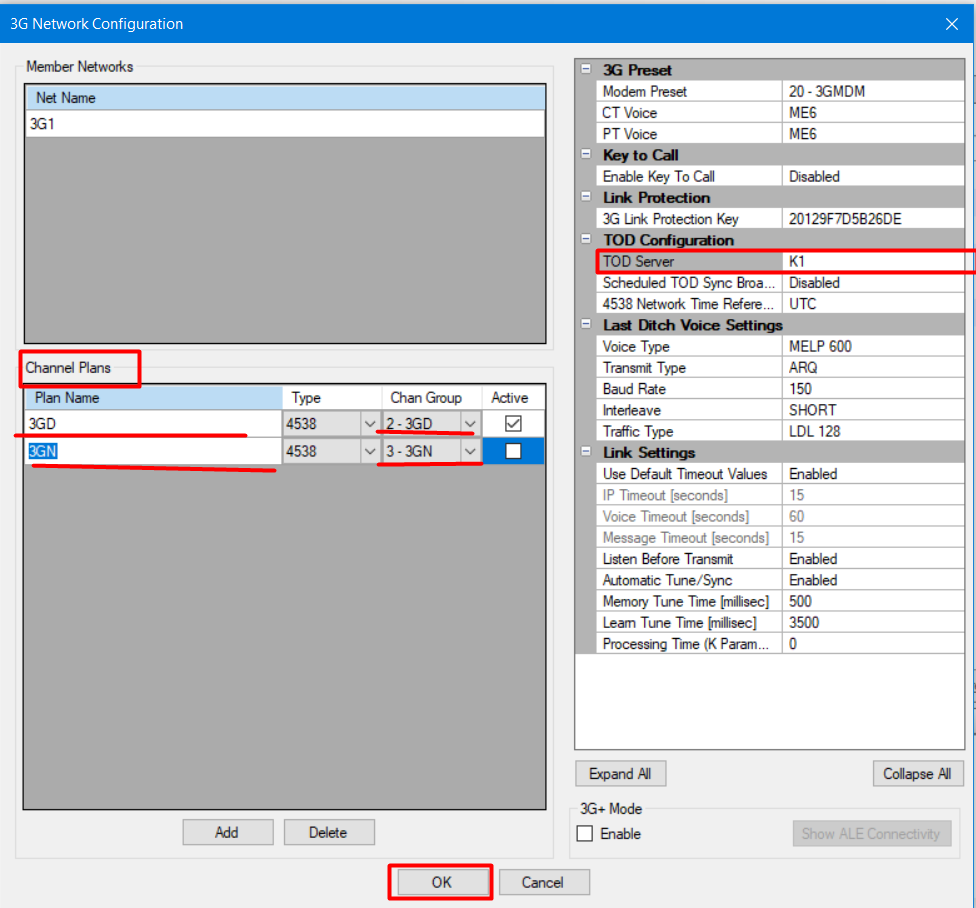
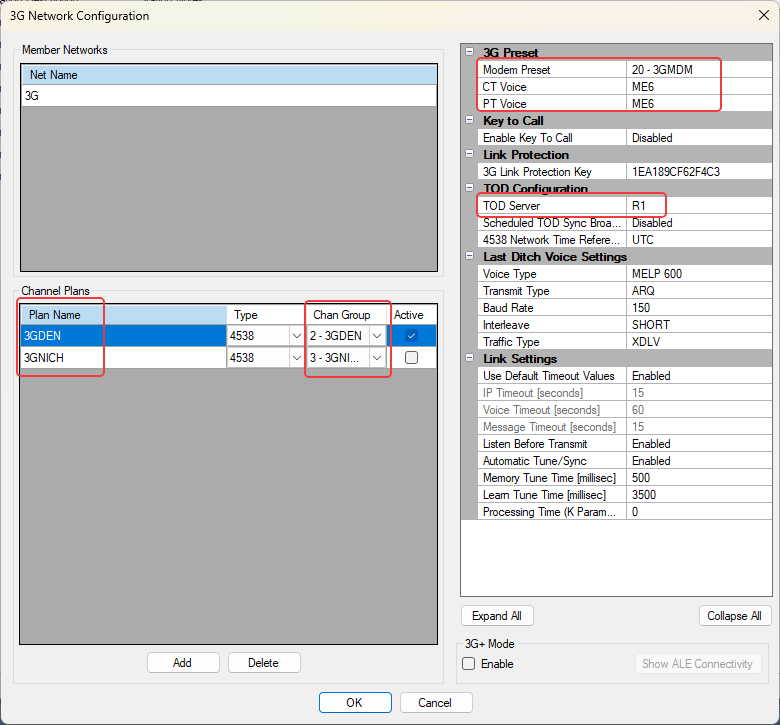
Оновити конфігурацію мережі 3G

Changed region(s): [[0.0, 0.0, 1.0, 1.0], [0.0, 0.971, 0.0308, 1.0]]

diff --git a/08-harris-kh-programuvannia/index.html b/08-harris-kh-programuvannia/index.html
@@ -5,7 +5,7 @@
   <meta name="viewport" content="width=device-width, initial-scale=1">
   <title>8. Програмування HARRIS КХ RF-7800H-MP</title>
   <link rel="icon" href="data:,">
-  <link rel="stylesheet" href="../style.css?v=a3d1751b5d5b">
+  <link rel="stylesheet" href="../style.css?v=8e0179efb502">
 </head>
 <body>
   <main class="page">
@@ -268,22 +268,24 @@
       <ol>
         <li>Додай радіостанції через <code>Existing</code>.</li>
         <li>Зніми виділення та натисни <code>Expand All</code>.</li>
-        <li>Обери <code>Crypto Algorithm</code> і <code>Key Name</code>.</li>
+        <li>Обери <code>Crypto Algorithm</code> і <code>Key Ring Name</code>.</li>
         <li>Відкрий поле <code>3G Configuration</code> кнопкою з трьома крапками.</li>
       </ol>
-      <figure class="procedure-shot">
+      <figure class="procedure-shot procedure-shot-narrow">
         <button class="procedure-shot-button" type="button" aria-label="Збільшити властивості 3G"><img src="three-g-network-properties.png" alt="Властивості мережі 3G і поле 3G Configuration" loading="lazy"></button>
         <figcaption>Шифрування та перехід до спільних параметрів мережі 3G.</figcaption>
       </figure>
-      <h3>TOD Server і частотні плани</h3>
+      <h3>Конфігурація 3G</h3>
       <ul>
+        <li>У групі <code>3G Preset</code> обери <code>Modem Preset</code>, <code>CT Voice</code> і <code>PT Voice</code>.</li>
         <li>У полі <code>TOD Server</code> обери головну радіостанцію, яка забезпечуватиме часову основу мережі.</li>
         <li>У розділі <code>Channel Plans</code> задай назву кожного плану в полі <code>Plan Name</code>.</li>
         <li>У полі <code>Chan Group</code> признач канальну групу 3G відповідному частотному плану.</li>
+        <li>Познач прапорцем <code>Active</code> частотний план, який має бути активним.</li>
       </ul>
       <figure class="procedure-shot">
         <button class="procedure-shot-button" type="button" aria-label="Збільшити конфігурацію 3G"><img src="three-g-configuration.png" alt="TOD Server і Channel Plans у конфігурації 3G" loading="lazy"></button>
-        <figcaption>Вибір TOD Server і канальних груп частотних планів.</figcaption>
+        <figcaption>Профіль модема, вокодери, <code>TOD Server</code> і канальні групи частотних планів.</figcaption>
       </figure>
     </section>
 
@@ -353,12 +355,12 @@
       <p><a href="../07-harris-kh-ekspluatatsiia/index.html#ip-adresa">Перегляд налаштування DIRECT USB та IP-адреси радіостанції</a></p>
     </section>
   </main>
-  <script src="../asset-version.js?v=a3d1751b5d5b"></script>
-  <script src="../search-index.js?v=a3d1751b5d5b"></script>
-  <script src="../topic-search.js?v=a3d1751b5d5b"></script>
+  <script src="../asset-version.js?v=8e0179efb502"></script>
+  <script src="../search-index.js?v=8e0179efb502"></script>
+  <script src="../topic-search.js?v=8e0179efb502"></script>
   <script>window.GLOSSARY_ROOT = "../";</script>
-  <script src="../glossary-data.js?v=a3d1751b5d5b"></script>
-  <script src="../glossary-terms.js?v=a3d1751b5d5b"></script>
-  <script src="../site-ui.js?v=a3d1751b5d5b"></script>
+  <script src="../glossary-data.js?v=8e0179efb502"></script>
+  <script src="../glossary-terms.js?v=8e0179efb502"></script>
+  <script src="../site-ui.js?v=8e0179efb502"></script>
 </body>
 </html>

diff --git a/02-tehnika-bezpeky/quiz.html b/02-tehnika-bezpeky/quiz.html
@@ -1,8 +1,8 @@
 <!doctype html>
-  <script src="../asset-version.js?v=a3d1751b5d5b"></script>
+  <script src="../asset-version.js?v=8e0179efb502"></script>
 
 <script>location.replace("../quiz.html?topic=2");</script>
-<html lang="uk"><head><meta charset="utf-8"><meta name="viewport" content="width=device-width, initial-scale=1"><title>Вікторина</title><link rel="icon" href="data:,"><link rel="stylesheet" href="../style.css?v=a3d1751b5d5b"><link rel="stylesheet" href="../quiz-common.css?v=a3d1751b5d5b"></head>
+<html lang="uk"><head><meta charset="utf-8"><meta name="viewport" content="width=device-width, initial-scale=1"><title>Вікторина</title><link rel="icon" href="data:,"><link rel="stylesheet" href="../style.css?v=8e0179efb502"><link rel="stylesheet" href="../quiz-common.css?v=8e0179efb502"></head>
 <body><main class="page quiz-page">
   <div class="topbar"><a href="index.html">До конспекту</a><span>Тема 2 / Тренування</span></div>
   <header class="quiz-header"><div><p id="topicLabel" class="source"></p><h1 id="quizTitle">Екзаменаційна вікторина</h1></div><div class="scoreboard" aria-label="Стан вікторини"><div><span id="progressText">-</span><small>питання</small></div><div><span id="scoreText">0</span><small>правильно</small></div><div><span id="bestText">-</span><small>найкраще</small></div></div></header>
@@ -10,4 +10,4 @@
   <section id="resumePanel" class="resume-panel" hidden><p class="question-topic">Незавершена спроба</p><h2>Продовжити збережену вікторину?</h2><p id="resumeSummary"></p><div class="quiz-actions"><button id="resumeButton" class="primary-button" type="button">Продовжити</button><button id="newQuizButton" class="secondary-button" type="button">Почати нову</button></div></section>
   <section id="quizPanel" class="quiz-panel" hidden aria-live="polite"><p id="questionTopic" class="question-topic"></p><h2 id="questionText"></h2><div id="answers" class="answers" role="radiogroup"></div><div id="feedback" class="feedback" hidden><p id="feedbackTitle" class="feedback-title"></p><p id="feedbackText"></p><a id="referenceLink" class="reference-link" href="index.html" target="_blank" rel="noopener">Відкрити фрагмент конспекту</a></div><div class="quiz-actions"><button id="checkButton" class="primary-button" type="button" disabled>Перевірити</button><button id="nextButton" class="primary-button" type="button" hidden>Наступне питання</button></div></section>
   <section id="resultPanel" class="result-panel" hidden><p class="result-label">Результат</p><h2 id="resultTitle"></h2><p id="resultMessage"></p><div class="result-stats"><div><strong id="resultCorrectTotal">0/0</strong><span>правильно / усього</span></div><div><strong id="resultGrade">0/5</strong><span>оцінка</span></div><div><strong id="resultPercent">0%</strong><span>правильних</span></div><div><strong id="resultTime">0:00</strong><span>активний час</span></div></div><div id="mistakes" class="mistakes"></div><div class="result-actions"><button id="restartButton" class="primary-button" type="button">Пройти ще раз</button><a class="secondary-button" href="index.html">До конспекту</a></div></section>
-</main><script src="quiz-data.js?v=a3d1751b5d5b"></script><script src="../quiz-engine.js?v=a3d1751b5d5b"></script><script src="../site-ui.js?v=a3d1751b5d5b"></script></body></html>
+</main><script src="quiz-data.js?v=8e0179efb502"></script><script src="../quiz-engine.js?v=8e0179efb502"></script><script src="../site-ui.js?v=8e0179efb502"></script></body></html>

diff --git a/03-radiohvyli-radiozviazok-zavady/quiz.html b/03-radiohvyli-radiozviazok-zavady/quiz.html
@@ -1,8 +1,8 @@
 <!doctype html>
-  <script src="../asset-version.js?v=a3d1751b5d5b"></script>
+  <script src="../asset-version.js?v=8e0179efb502"></script>
 
 <script>location.replace("../quiz.html?topic=3");</script>
-<html lang="uk"><head><meta charset="utf-8"><meta name="viewport" content="width=device-width, initial-scale=1"><title>Вікторина</title><link rel="icon" href="data:,"><link rel="stylesheet" href="../style.css?v=a3d1751b5d5b"><link rel="stylesheet" href="../quiz-common.css?v=a3d1751b5d5b"></head>
+<html lang="uk"><head><meta charset="utf-8"><meta name="viewport" content="width=device-width, initial-scale=1"><title>Вікторина</title><link rel="icon" href="data:,"><link rel="stylesheet" href="../style.css?v=8e0179efb502"><link rel="stylesheet" href="../quiz-common.css?v=8e0179efb502"></head>
 <body><main class="page quiz-page">
   <div class="topbar"><a href="index.html">До конспекту</a><span>Тема 3 / Тренування</span></div>
   <header class="quiz-header"><div><p id="topicLabel" class="source"></p><h1 id="quizTitle">Екзаменаційна вікторина</h1></div><div class="scoreboard" aria-label="Стан вікторини"><div><span id="progressText">-</span><small>питання</small></div><div><span id="scoreText">0</span><small>правильно</small></div><div><span id="bestText">-</span><small>найкраще</small></div></div></header>
@@ -10,4 +10,4 @@
   <section id="resumePanel" class="resume-panel" hidden><p class="question-topic">Незавершена спроба</p><h2>Продовжити збережену вікторину?</h2><p id="resumeSummary"></p><div class="quiz-actions"><button id="resumeButton" class="primary-button" type="button">Продовжити</button><button id="newQuizButton" class="secondary-button" type="button">Почати нову</button></div></section>
   <section id="quizPanel" class="quiz-panel" hidden aria-live="polite"><p id="questionTopic" class="question-topic"></p><h2 id="questionText"></h2><div id="answers" class="answers" role="radiogroup"></div><div id="feedback" class="feedback" hidden><p id="feedbackTitle" class="feedback-title"></p><p id="feedbackText"></p><a id="referenceLink" class="reference-link" href="index.html" target="_blank" rel="noopener">Відкрити фрагмент конспекту</a></div><div class="quiz-actions"><button id="checkButton" class="primary-button" type="button" disabled>Перевірити</button><button id="nextButton" class="primary-button" type="button" hidden>Наступне питання</button></div></section>
   <section id="resultPanel" class="result-panel" hidden><p class="result-label">Результат</p><h2 id="resultTitle"></h2><p id="resultMessage"></p><div class="result-stats"><div><strong id="resultCorrectTotal">0/0</strong><span>правильно / усього</span></div><div><strong id="resultGrade">0/5</strong><span>оцінка</span></div><div><strong id="resultPercent">0%</strong><span>правильних</span></div><div><strong id="resultTime">0:00</strong><span>активний час</span></div></div><div id="mistakes" class="mistakes"></div><div class="result-actions"><button id="restartButton" class="primary-button" type="button">Пройти ще раз</button><a class="secondary-button" href="index.html">До конспекту</a></div></section>
-</main><script src="quiz-data.js?v=a3d1751b5d5b"></script><script src="../quiz-engine.js?v=a3d1751b5d5b"></script><script src="../site-ui.js?v=a3d1751b5d5b"></script></body></html>
+</main><script src="quiz-data.js?v=8e0179efb502"></script><script src="../quiz-engine.js?v=8e0179efb502"></script><script src="../site-ui.js?v=8e0179efb502"></script></body></html>

diff --git a/04-pobudova-radiostantsii-antenny/quiz.html b/04-pobudova-radiostantsii-antenny/quiz.html
@@ -1,8 +1,8 @@
 <!doctype html>
-  <script src="../asset-version.js?v=a3d1751b5d5b"></script>
+  <script src="../asset-version.js?v=8e0179efb502"></script>
 
 <script>location.replace("../quiz.html?topic=4");</script>
-<html lang="uk"><head><meta charset="utf-8"><meta name="viewport" content="width=device-width, initial-scale=1"><title>Вікторина</title><link rel="icon" href="data:,"><link rel="stylesheet" href="../style.css?v=a3d1751b5d5b"><link rel="stylesheet" href="../quiz-common.css?v=a3d1751b5d5b"></head>
+<html lang="uk"><head><meta charset="utf-8"><meta name="viewport" content="width=device-width, initial-scale=1"><title>Вікторина</title><link rel="icon" href="data:,"><link rel="stylesheet" href="../style.css?v=8e0179efb502"><link rel="stylesheet" href="../quiz-common.css?v=8e0179efb502"></head>
 <body><main class="page quiz-page">
   <div class="topbar"><a href="index.html">До конспекту</a><span>Тема 4 / Тренування</span></div>
   <header class="quiz-header"><div><p id="topicLabel" class="source"></p><h1 id="quizTitle">Екзаменаційна вікторина</h1></div><div class="scoreboard" aria-label="Стан вікторини"><div><span id="progressText">-</span><small>питання</small></div><div><span id="scoreText">0</span><small>правильно</small></div><div><span id="bestText">-</span><small>найкраще</small></div></div></header>
@@ -10,4 +10,4 @@
   <section id="resumePanel" class="resume-panel" hidden><p class="question-topic">Незавершена спроба</p><h2>Продовжити збережену вікторину?</h2><p id="resumeSummary"></p><div class="quiz-actions"><button id="resumeButton" class="primary-button" type="button">Продовжити</button><button id="newQuizButton" class="secondary-button" type="button">Почати нову</button></div></section>
   <section id="quizPanel" class="quiz-panel" hidden aria-live="polite"><p id="questionTopic" class="question-topic"></p><h2 id="questionText"></h2><div id="answers" class="answers" role="radiogroup"></div><div id="feedback" class="feedback" hidden><p id="feedbackTitle" class="feedback-title"></p><p id="feedbackText"></p><a id="referenceLink" class="reference-link" href="index.html" target="_blank" rel="noopener">Відкрити фрагмент конспекту</a></div><div class="quiz-actions"><button id="checkButton" class="primary-button" type="button" disabled>Перевірити</button><button id="nextButton" class="primary-button" type="button" hidden>Наступне питання</button></div></section>
   <section id="resultPanel" class="result-panel" hidden><p class="result-label">Результат</p><h2 id="resultTitle"></h2><p id="resultMessage"></p><div class="result-stats"><div><strong id="resultCorrectTotal">0/0</strong><span>правильно / усього</span></div><div><strong id="resultGrade">0/5</strong><span>оцінка</span></div><div><strong id="resultPercent">0%</strong><span>правильних</span></div><div><strong id="resultTime">0:00</strong><span>активний час</span></div></div><div id="mistakes" class="mistakes"></div><div class="result-actions"><button id="restartButton" class="primary-button" type="button">Пройти ще раз</button><a class="secondary-button" href="index.html">До конспекту</a></div></section>
-</main><script src="quiz-data.js?v=a3d1751b5d5b"></script><script src="../quiz-engine.js?v=a3d1751b5d5b"></script><script src="../site-ui.js?v=a3d1751b5d5b"></script></body></html>
+</main><script src="quiz-data.js?v=8e0179efb502"></script><script src="../quiz-engine.js?v=8e0179efb502"></script><script src="../site-ui.js?v=8e0179efb502"></script></body></html>

diff --git a/05-harris-ukh/quiz.html b/05-harris-ukh/quiz.html
@@ -1,8 +1,8 @@
 <!doctype html>
-  <script src="../asset-version.js?v=a3d1751b5d5b"></script>
+  <script src="../asset-version.js?v=8e0179efb502"></script>
 
 <script>location.replace("../quiz.html?topic=5");</script>
-<html lang="uk"><head><meta charset="utf-8"><meta name="viewport" content="width=device-width, initial-scale=1"><title>Вікторина</title><link rel="icon" href="data:,"><link rel="stylesheet" href="../style.css?v=a3d1751b5d5b"><link rel="stylesheet" href="../quiz-common.css?v=a3d1751b5d5b"></head>
+<html lang="uk"><head><meta charset="utf-8"><meta name="viewport" content="width=device-width, initial-scale=1"><title>Вікторина</title><link rel="icon" href="data:,"><link rel="stylesheet" href="../style.css?v=8e0179efb502"><link rel="stylesheet" href="../quiz-common.css?v=8e0179efb502"></head>
 <body><main class="page quiz-page">
   <div class="topbar"><a href="index.html">До конспекту</a><span>Тема 5 / Тренування</span></div>
   <header class="quiz-header"><div><p id="topicLabel" class="source"></p><h1 id="quizTitle">Екзаменаційна вікторина</h1></div><div class="scoreboard" aria-label="Стан вікторини"><div><span id="progressText">-</span><small>питання</small></div><div><span id="scoreText">0</span><small>правильно</small></div><div><span id="bestText">-</span><small>найкраще</small></div></div></header>
@@ -10,4 +10,4 @@
   <section id="resumePanel" class="resume-panel" hidden><p class="question-topic">Незавершена спроба</p><h2>Продовжити збережену вікторину?</h2><p id="resumeSummary"></p><div class="quiz-actions"><button id="resumeButton" class="primary-button" type="button">Продовжити</button><button id="newQuizButton" class="secondary-button" type="button">Почати нову</button></div></section>
   <section id="quizPanel" class="quiz-panel" hidden aria-live="polite"><p id="questionTopic" class="question-topic"></p><h2 id="questionText"></h2><div id="answers" class="answers" role="radiogroup"></div><div id="feedback" class="feedback" hidden><p id="feedbackTitle" class="feedback-title"></p><p id="feedbackText"></p><a id="referenceLink" class="reference-link" href="index.html" target="_blank" rel="noopener">Відкрити фрагмент конспекту</a></div><div class="quiz-actions"><button id="checkButton" class="primary-button" type="button" disabled>Перевірити</button><button id="nextButton" class="primary-button" type="button" hidden>Наступне питання</button></div></section>
   <section id="resultPanel" class="result-panel" hidden><p class="result-label">Результат</p><h2 id="resultTitle"></h2><p id="resultMessage"></p><div class="result-stats"><div><strong id="resultCorrectTotal">0/0</strong><span>правильно / усього</span></div><div><strong id="resultGrade">0/5</strong><span>оцінка</span></div><div><strong id="resultPercent">0%</strong><span>правильних</span></div><div><strong id="resultTime">0:00</strong><span>активний час</span></div></div><div id="mistakes" class="mistakes"></div><div class="result-actions"><button id="restartButton" class="primary-button" type="button">Пройти ще раз</button><a class="secondary-button" href="index.html">До конспекту</a></div></section>
-</main><script src="quiz-data.js?v=a3d1751b5d5b"></script><script src="../quiz-engine.js?v=a3d1751b5d5b"></script><script src="../site-ui.js?v=a3d1751b5d5b"></script></body></html>
+</main><script src="quiz-data.js?v=8e0179efb502"></script><script src="../quiz-engine.js?v=8e0179efb502"></script><script src="../site-ui.js?v=8e0179efb502"></script></body></html>

diff --git a/search-index.js b/search-index.js
@@ -433,7 +433,7 @@ window.SEARCH_INDEX = {
       "topic": "8. Програмування HARRIS КХ RF-7800H-MP",
       "section": "Мережа 3G",
       "url": "08-harris-kh-programuvannia/index.html#three-g",
-      "text": "Мережа 3G Create Create Network 3G Додай радіостанції через Existing . Зніми виділення та натисни Expand All . Обери Crypto Algorithm і Key Name . Відкрий поле 3G Configuration кнопкою з трьома крапками. Шифрування та перехід до спільних параметрів мережі 3G. TOD Server і частотні плани У полі TOD Server обери головну радіостанцію, яка забезпечуватиме часову основу мережі. У розділі Channel Plans задай назву кожного плану в полі Plan Name . У полі Chan Group признач канальну групу 3G відповідному частотному плану. Вибір TOD Server і канальних груп частотних планів."
+      "text": "Мережа 3G Create Create Network 3G Додай радіостанції через Existing . Зніми виділення та натисни Expand All . Обери Crypto Algorithm і Key Ring Name . Відкрий поле 3G Configuration кнопкою з трьома крапками. Шифрування та перехід до спільних параметрів мережі 3G. Конфігурація 3G У групі 3G Preset обери Modem Preset , CT Voice і PT Voice . У полі TOD Server обери головну радіостанцію, яка забезпечуватиме часову основу мережі. У розділі Channel Plans задай назву кожного плану в полі Plan Name . У полі Chan Group признач канальну групу 3G відповідному частотному плану. Познач прапорцем Active частотний план, який має бути активним. Профіль модема, вокодери, TOD Server і канальні групи частотних планів."
     },
     {
       "topic": "8. Програмування HARRIS КХ RF-7800H-MP",

diff --git a/02-tehnika-bezpeky/index.html b/02-tehnika-bezpeky/index.html
@@ -4,7 +4,7 @@
   <meta charset="utf-8">
   <meta name="viewport" content="width=device-width, initial-scale=1">
   <title>2. Техніка безпеки при експлуатації та обслуговуванні засобів радіозв'язку</title>
-  <link rel="stylesheet" href="../style.css?v=a3d1751b5d5b">
+  <link rel="stylesheet" href="../style.css?v=8e0179efb502">
 </head>
 <body>
   <main class="page">
@@ -166,13 +166,13 @@
     <div class="topic-quiz-cta"><div><strong>Перевір себе</strong><span>Перевір знання за матеріалами цієї теми.</span></div><a class="topic-quiz-button" href="../quiz.html?topic=2">Почати вікторину <span aria-hidden="true">→</span></a></div>
 
   </main>
-  <script src="../asset-version.js?v=a3d1751b5d5b"></script>
+  <script src="../asset-version.js?v=8e0179efb502"></script>
 
-  <script src="../search-index.js?v=a3d1751b5d5b"></script>
-  <script src="../topic-search.js?v=a3d1751b5d5b"></script>
+  <script src="../search-index.js?v=8e0179efb502"></script>
+  <script src="../topic-search.js?v=8e0179efb502"></script>
   <script>window.GLOSSARY_ROOT = "../";</script>
-  <script src="../glossary-data.js?v=a3d1751b5d5b"></script>
-  <script src="../glossary-terms.js?v=a3d1751b5d5b"></script>
-  <script src="../site-ui.js?v=a3d1751b5d5b"></script>
+  <script src="../glossary-data.js?v=8e0179efb502"></script>
+  <script src="../glossary-terms.js?v=8e0179efb502"></script>
+  <script src="../site-ui.js?v=8e0179efb502"></script>
 </body>
 </html>

diff --git a/01-osnovy-radiozviazku/index.html b/01-osnovy-radiozviazku/index.html
@@ -4,7 +4,7 @@
   <meta charset="utf-8">
   <meta name="viewport" content="width=device-width, initial-scale=1">
   <title>1. Основи радіозв'язку: організація, режими, радіообмін</title>
-  <link rel="stylesheet" href="../style.css?v=a3d1751b5d5b">
+  <link rel="stylesheet" href="../style.css?v=8e0179efb502">
 </head>
 <body>
   <main class="page">
@@ -205,13 +205,13 @@
 
     <div class="topic-quiz-cta"><div><strong>Перевір себе</strong><span>Перевір знання за матеріалами цієї теми.</span></div><a class="topic-quiz-button" href="../quiz.html?topic=1">Почати вікторину <span aria-hidden="true">→</span></a></div>
   </main>
-  <script src="../asset-version.js?v=a3d1751b5d5b"></script>
+  <script src="../asset-version.js?v=8e0179efb502"></script>
 
-  <script src="../search-index.js?v=a3d1751b5d5b"></script>
-  <script src="../topic-search.js?v=a3d1751b5d5b"></script>
+  <script src="../search-index.js?v=8e0179efb502"></script>
+  <script src="../topic-search.js?v=8e0179efb502"></script>
   <script>window.GLOSSARY_ROOT = "../";</script>
-  <script src="../glossary-data.js?v=a3d1751b5d5b"></script>
-  <script src="../glossary-terms.js?v=a3d1751b5d5b"></script>
-  <script src="../site-ui.js?v=a3d1751b5d5b"></script>
+  <script src="../glossary-data.js?v=8e0179efb502"></script>
+  <script src="../glossary-terms.js?v=8e0179efb502"></script>
+  <script src="../site-ui.js?v=8e0179efb502"></script>
 </body>
 </html>

diff --git a/04-pobudova-radiostantsii-antenny/index.html b/04-pobudova-radiostantsii-antenny/index.html
@@ -4,7 +4,7 @@
   <meta charset="utf-8">
   <meta name="viewport" content="width=device-width, initial-scale=1">
   <title>4. Побудова сучасних радіостанцій та антени</title>
-  <link rel="stylesheet" href="../style.css?v=a3d1751b5d5b">
+  <link rel="stylesheet" href="../style.css?v=8e0179efb502">
 </head>
 <body>
   <main class="page">
@@ -208,13 +208,13 @@
     <div class="topic-quiz-cta"><div><strong>Перевір себе</strong><span>Перевір знання за матеріалами цієї теми.</span></div><a class="topic-quiz-button" href="../quiz.html?topic=4">Почати вікторину <span aria-hidden="true">→</span></a></div>
 
   </main>
-  <script src="../asset-version.js?v=a3d1751b5d5b"></script>
+  <script src="../asset-version.js?v=8e0179efb502"></script>
 
-  <script src="../search-index.js?v=a3d1751b5d5b"></script>
-  <script src="../topic-search.js?v=a3d1751b5d5b"></script>
+  <script src="../search-index.js?v=8e0179efb502"></script>
+  <script src="../topic-search.js?v=8e0179efb502"></script>
   <script>window.GLOSSARY_ROOT = "../";</script>
-  <script src="../glossary-data.js?v=a3d1751b5d5b"></script>
-  <script src="../glossary-terms.js?v=a3d1751b5d5b"></script>
-  <script src="../site-ui.js?v=a3d1751b5d5b"></script>
+  <script src="../glossary-data.js?v=8e0179efb502"></script>
+  <script src="../glossary-terms.js?v=8e0179efb502"></script>
+  <script src="../site-ui.js?v=8e0179efb502"></script>
 </body>
 </html>

diff --git a/03-radiohvyli-radiozviazok-zavady/index.html b/03-radiohvyli-radiozviazok-zavady/index.html
@@ -4,7 +4,7 @@
   <meta charset="utf-8">
   <meta name="viewport" content="width=device-width, initial-scale=1">
   <title>3. Радіохвилі, радіозв'язок і радіозавади</title>
-  <link rel="stylesheet" href="../style.css?v=a3d1751b5d5b">
+  <link rel="stylesheet" href="../style.css?v=8e0179efb502">
 </head>
 <body>
   <main class="page">
@@ -171,13 +171,13 @@
     <div class="topic-quiz-cta"><div><strong>Перевір себе</strong><span>Перевір знання за матеріалами цієї теми.</span></div><a class="topic-quiz-button" href="../quiz.html?topic=3">Почати вікторину <span aria-hidden="true">→</span></a></div>
 
   </main>
-  <script src="../asset-version.js?v=a3d1751b5d5b"></script>
+  <script src="../asset-version.js?v=8e0179efb502"></script>
 
-  <script src="../search-index.js?v=a3d1751b5d5b"></script>
-  <script src="../topic-search.js?v=a3d1751b5d5b"></script>
+  <script src="../search-index.js?v=8e0179efb502"></script>
+  <script src="../topic-search.js?v=8e0179efb502"></script>
   <script>window.GLOSSARY_ROOT = "../";</script>
-  <script src="../glossary-data.js?v=a3d1751b5d5b"></script>
-  <script src="../glossary-terms.js?v=a3d1751b5d5b"></script>
-  <script src="../site-ui.js?v=a3d1751b5d5b"></script>
+  <script src="../glossary-data.js?v=8e0179efb502"></script>
+  <script src="../glossary-terms.js?v=8e0179efb502"></script>
+  <script src="../site-ui.js?v=8e0179efb502"></script>
 </body>
 </html>

diff --git a/07-harris-kh-ekspluatatsiia/index.html b/07-harris-kh-ekspluatatsiia/index.html
@@ -5,7 +5,7 @@
   <meta name="viewport" content="width=device-width, initial-scale=1">
   <title>7. Експлуатація HARRIS КХ RF-7800H-MP / MPR-9600-MP</title>
   <link rel="icon" href="data:,">
-  <link rel="stylesheet" href="../style.css?v=a3d1751b5d5b">
+  <link rel="stylesheet" href="../style.css?v=8e0179efb502">
 </head>
 <body>
   <main class="page">
@@ -216,13 +216,13 @@
 
     <div class="topic-quiz-cta"><div><strong>Перевір себе</strong><span>Перевір знання за матеріалами цієї теми.</span></div><a class="topic-quiz-button" href="../quiz.html?topic=7">Почати вікторину <span aria-hidden="true">→</span></a></div>
   </main>
-  <script src="../asset-version.js?v=a3d1751b5d5b"></script>
+  <script src="../asset-version.js?v=8e0179efb502"></script>
 
-  <script src="../search-index.js?v=a3d1751b5d5b"></script>
-  <script src="../topic-search.js?v=a3d1751b5d5b"></script>
+  <script src="../search-index.js?v=8e0179efb502"></script>
+  <script src="../topic-search.js?v=8e0179efb502"></script>
   <script>window.GLOSSARY_ROOT = "../";</script>
-  <script src="../glossary-data.js?v=a3d1751b5d5b"></script>
-  <script src="../glossary-terms.js?v=a3d1751b5d5b"></script>
-  <script src="../site-ui.js?v=a3d1751b5d5b"></script>
+  <script src="../glossary-data.js?v=8e0179efb502"></script>
+  <script src="../glossary-terms.js?v=8e0179efb502"></script>
+  <script src="../site-ui.js?v=8e0179efb502"></script>
 </body>
 </html>

diff --git a/05-harris-ukh/index.html b/05-harris-ukh/index.html
@@ -5,7 +5,7 @@
   <meta name="viewport" content="width=device-width, initial-scale=1">
   <title>5. ТТХ HARRIS УКХ RF-7850M-HH / RF-7800V-HH</title>
   <link rel="icon" href="data:,">
-  <link rel="stylesheet" href="../style.css?v=a3d1751b5d5b">
+  <link rel="stylesheet" href="../style.css?v=8e0179efb502">
 </head>
 <body>
   <main class="page">
@@ -498,13 +498,13 @@
     <div class="topic-quiz-cta"><div><strong>Перевір себе</strong><span>Перевір знання за матеріалами цієї теми.</span></div><a class="topic-quiz-button" href="../quiz.html?topic=5">Почати вікторину <span aria-hidden="true">→</span></a></div>
 
   </main>
-  <script src="../asset-version.js?v=a3d1751b5d5b"></script>
+  <script src="../asset-version.js?v=8e0179efb502"></script>
 
-  <script src="../search-index.js?v=a3d1751b5d5b"></script>
-  <script src="../topic-search.js?v=a3d1751b5d5b"></script>
+  <script src="../search-index.js?v=8e0179efb502"></script>
+  <script src="../topic-search.js?v=8e0179efb502"></script>
   <script>window.GLOSSARY_ROOT = "../";</script>
-  <script src="../glossary-data.js?v=a3d1751b5d5b"></script>
-  <script src="../glossary-terms.js?v=a3d1751b5d5b"></script>
-  <script src="../site-ui.js?v=a3d1751b5d5b"></script>
+  <script src="../glossary-data.js?v=8e0179efb502"></script>
+  <script src="../glossary-terms.js?v=8e0179efb502"></script>
+  <script src="../site-ui.js?v=8e0179efb502"></script>
 </body>
 </html>
